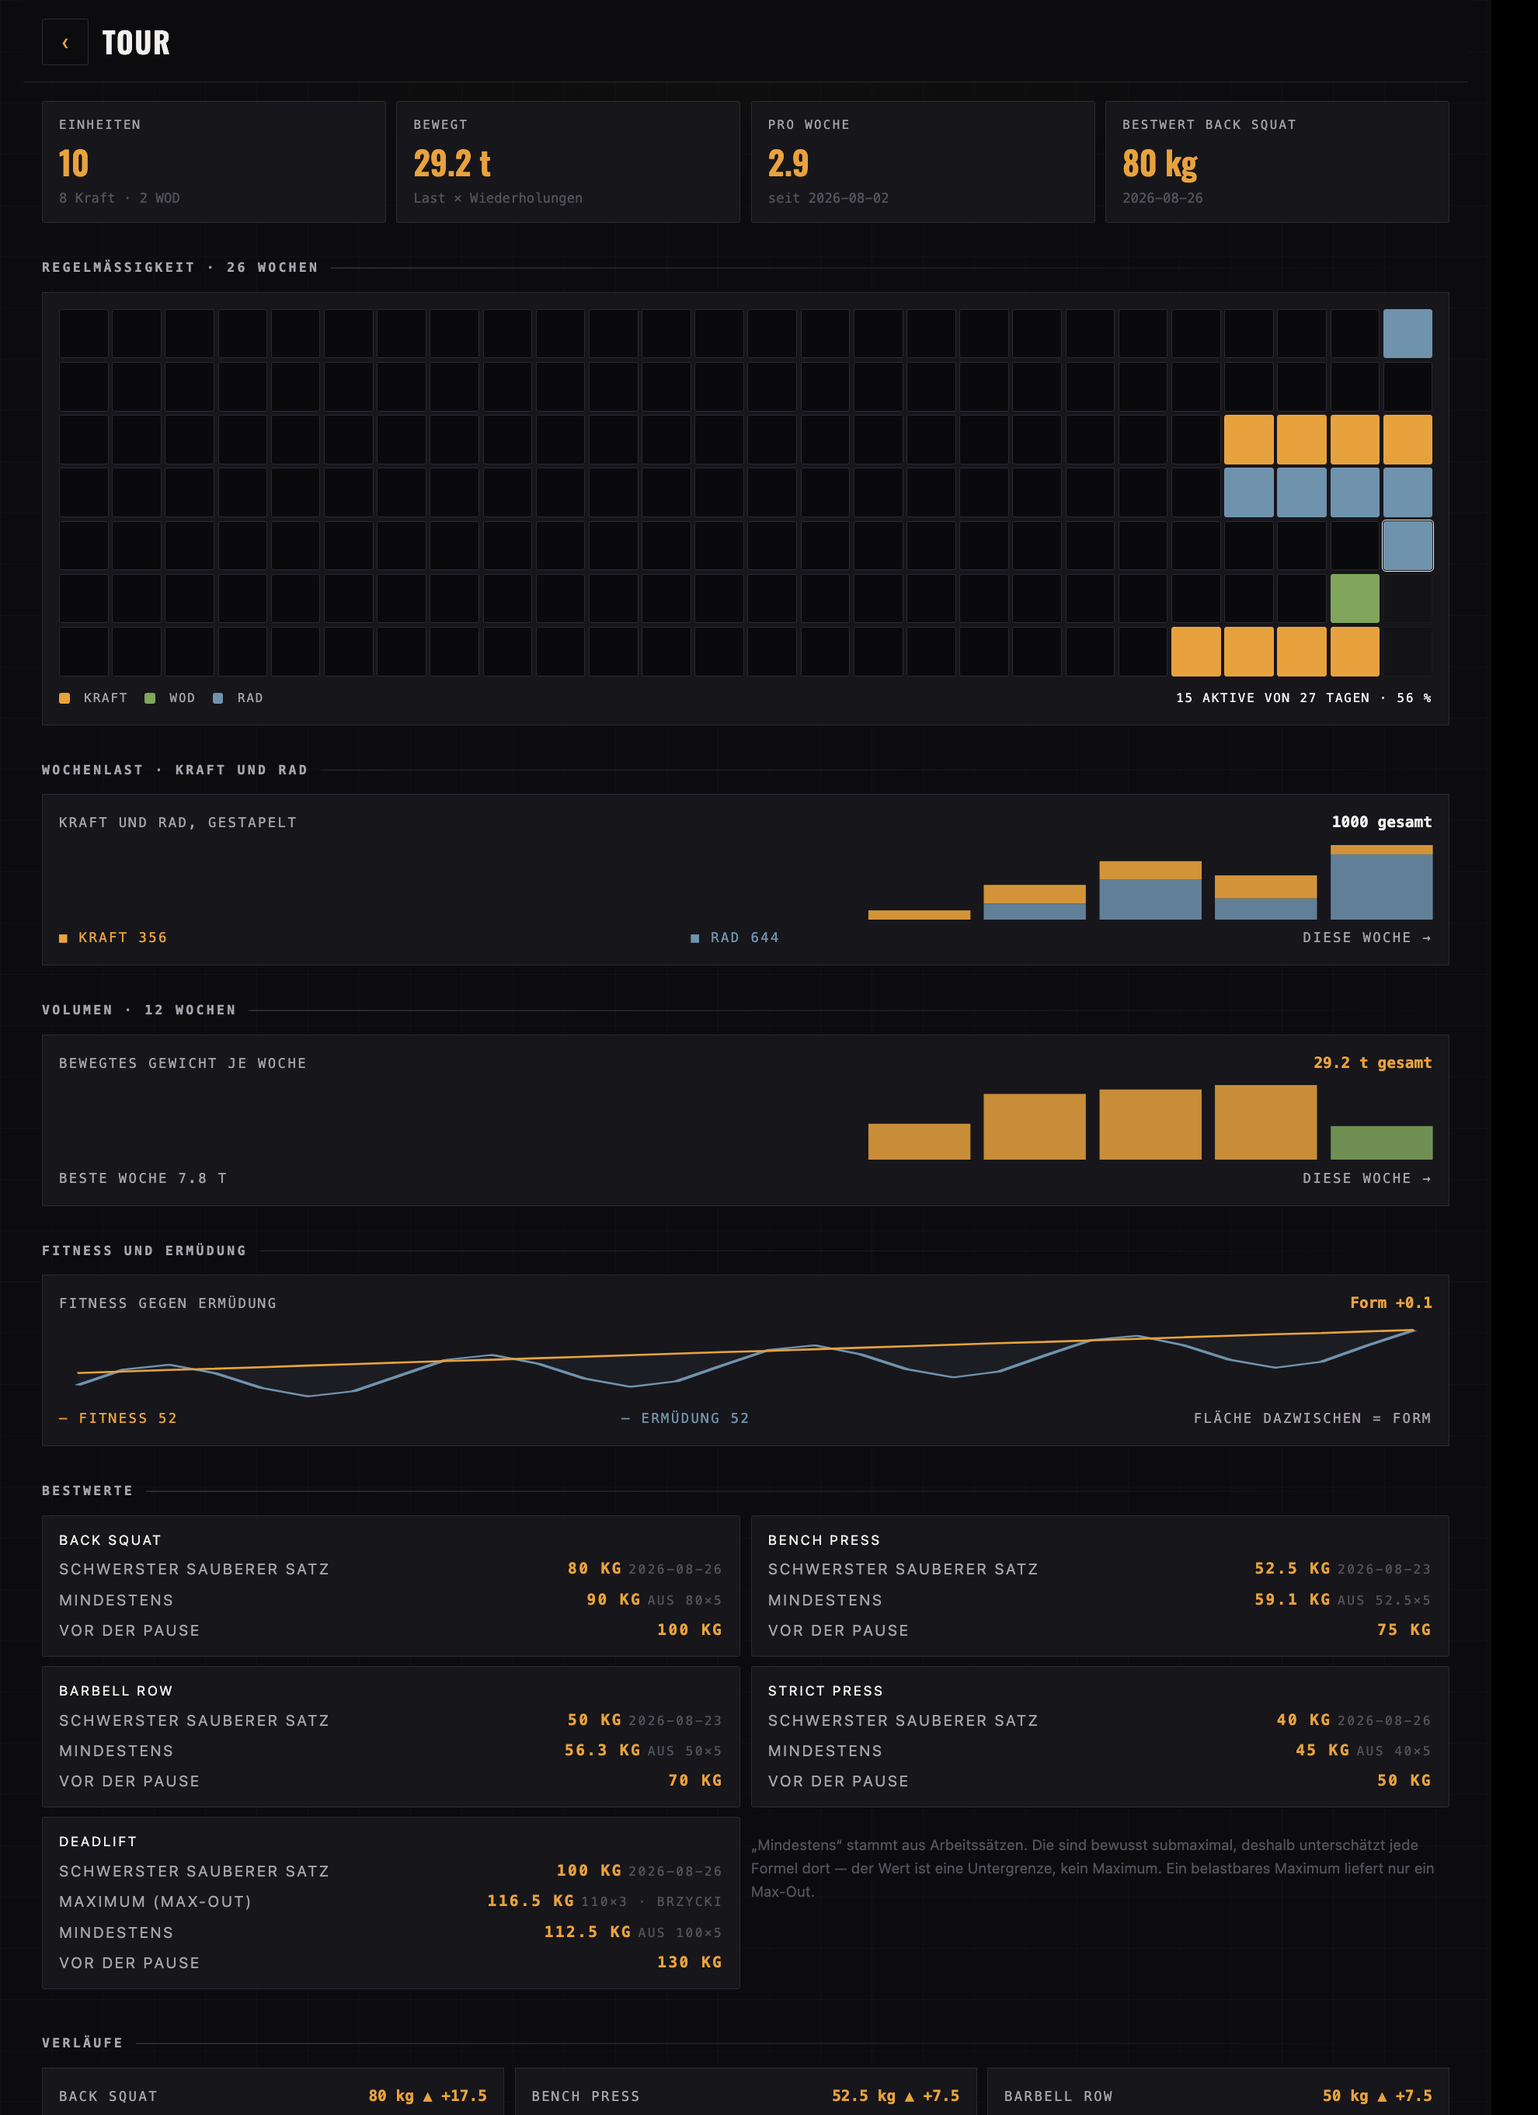
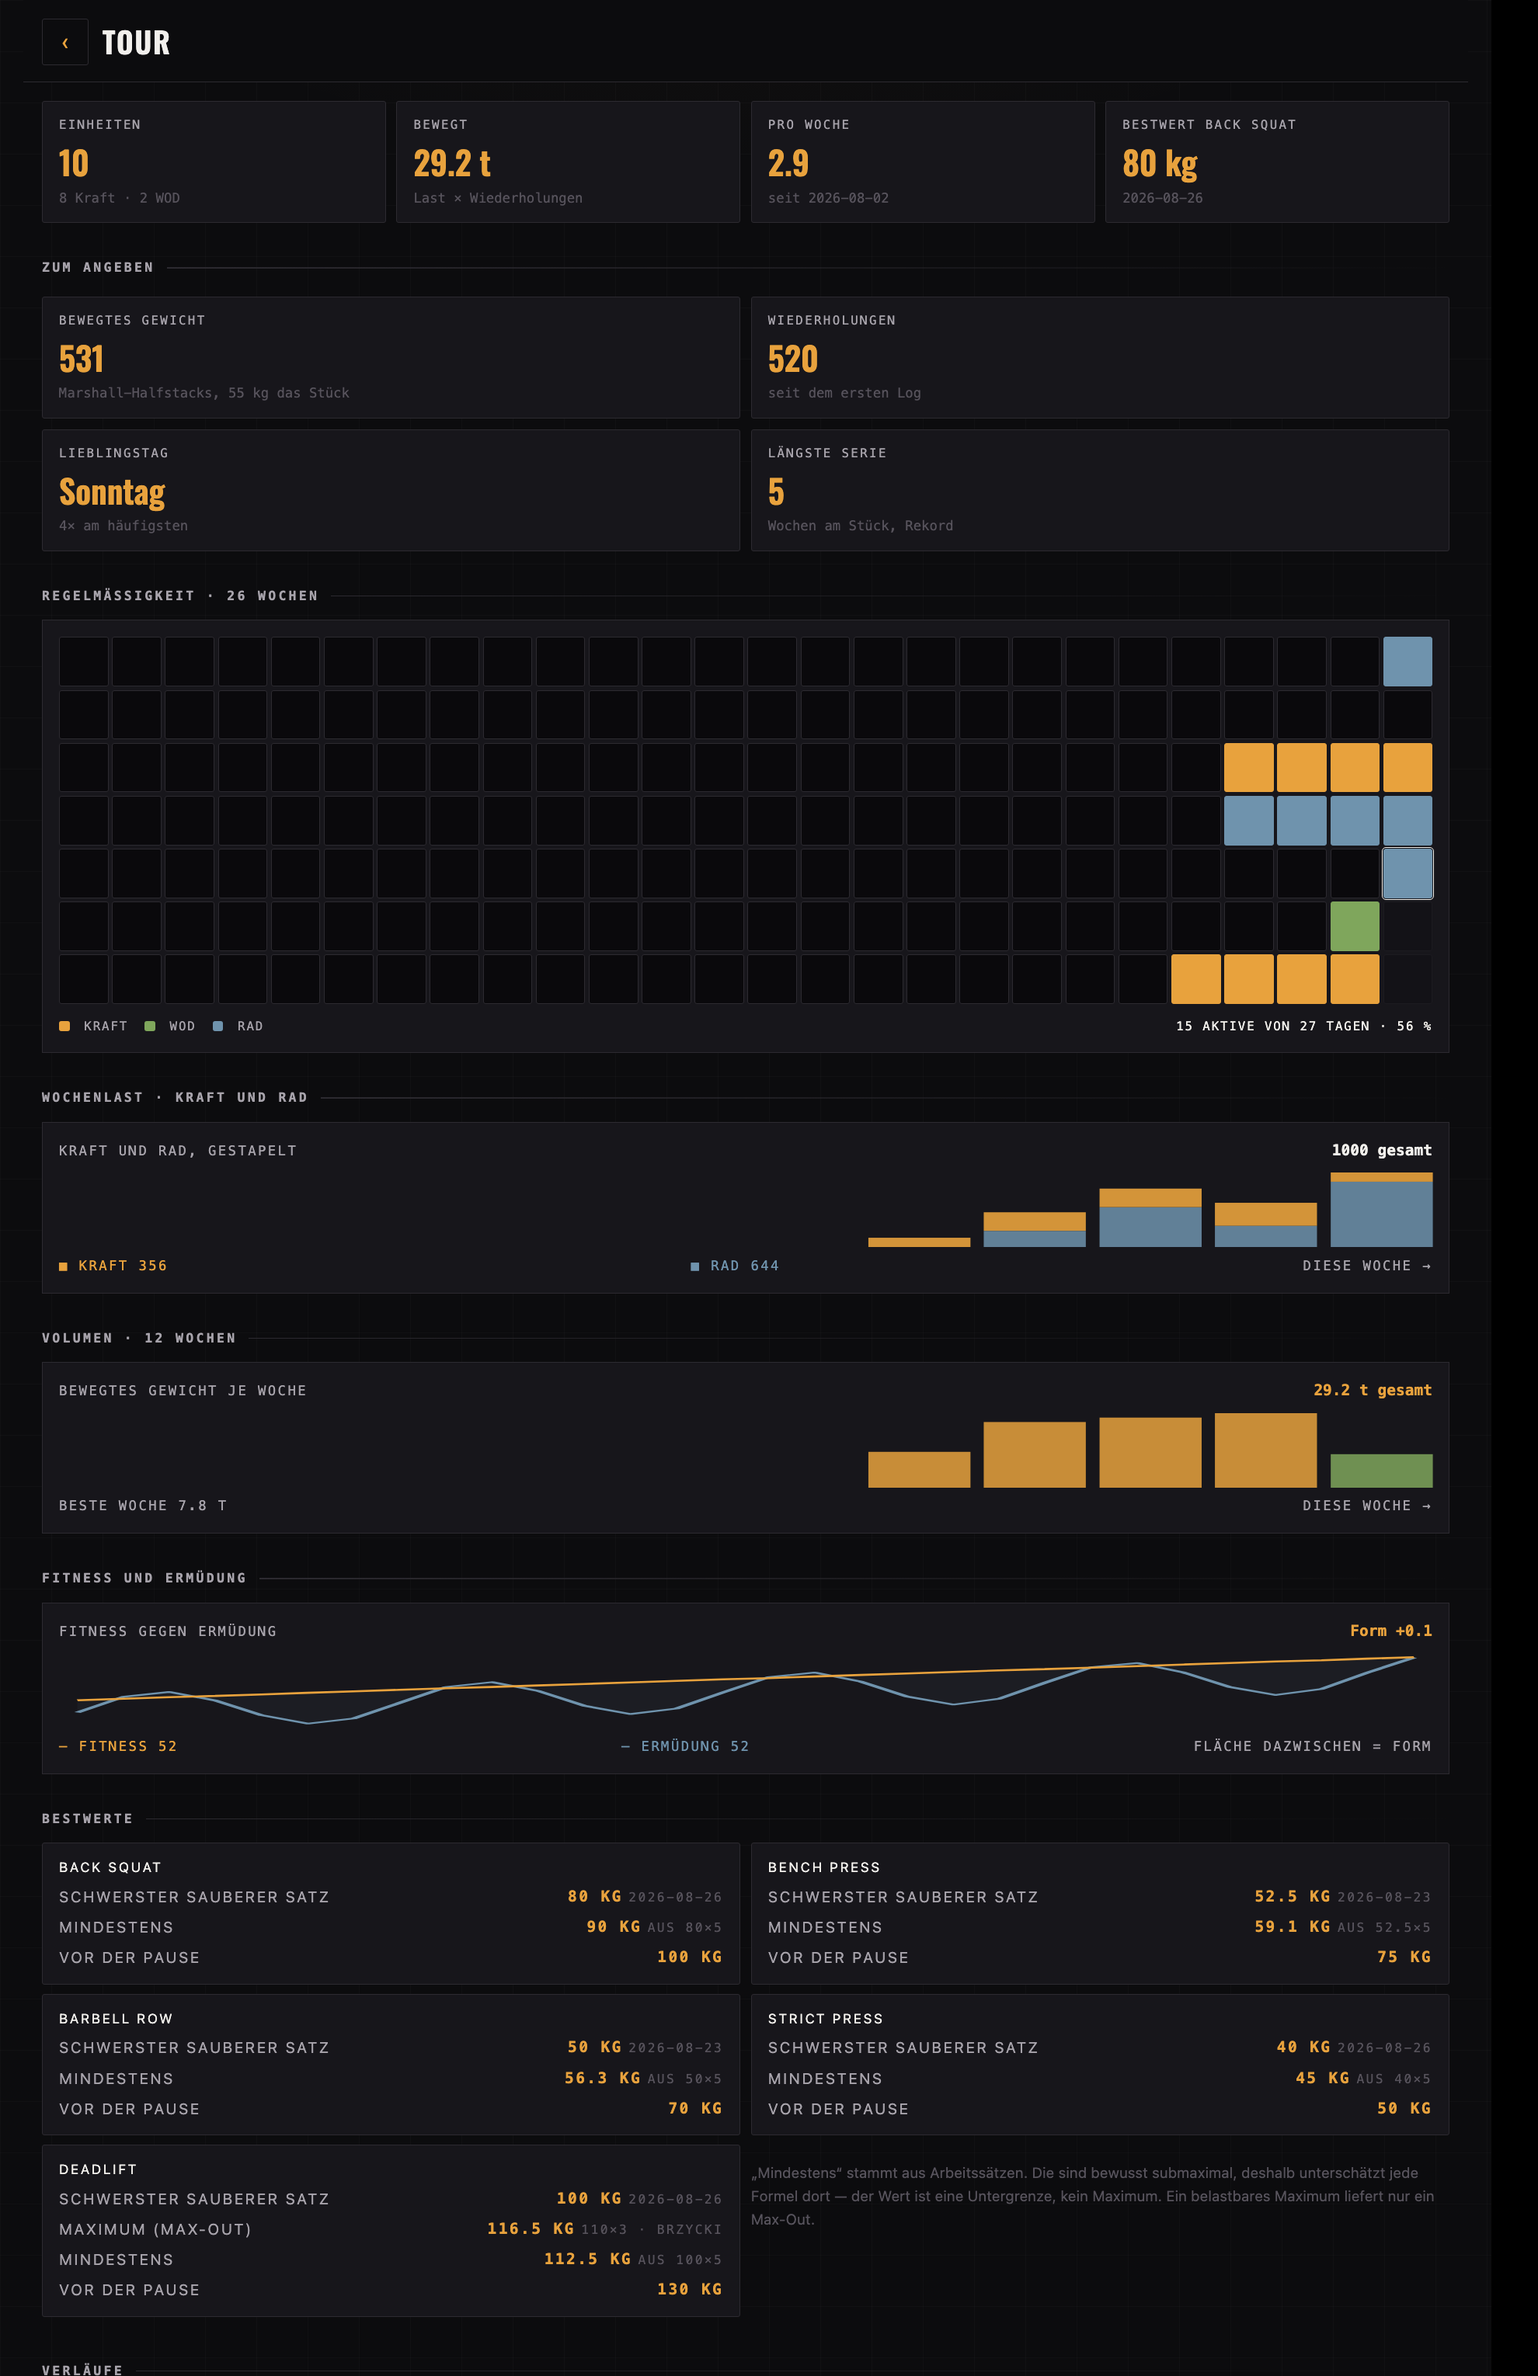
Neue Sektion "Zum Angeben" in der Tour
Drei defensible Vergleiche/Zaehlungen statt geschaetzter Kalorien:
bewegtes Gewicht in Marshall-Halfstacks (55 kg, Kopf + 4x12-Box —
Danaels eigene Wahl statt Konzertfluegel/Golf), Wiederholungen gesamt,
Lieblingstag und laengste Wochen-Serie ueber die gesamte Geschichte.

Kalorien aus bewegtem Gewicht zu schaetzen waere genau das Marketing-
Geraten gewesen, das die App nicht machen soll: bewegtes Gewicht ist
Physik, verbrannte Kalorien sind Stoffwechsel. Die drei neuen Werte
bleiben entweder in derselben Einheit (kg zu kg) oder sind reine
Zaehlungen.

Neue Funktionen in stats.js: wiederholungenGesamt, lieblingstag (Kraft,
WOD und Rad zusammen, ein Tag zaehlt einmal), laengsteSerie (Rekord ueber
alle Wochen, nicht die laufende — die zeigt der Kalender schon). Acht
neue Tests.

Inspiriert von der Radgruppe-Seite eines befreundeten Projekts
(wattwarriors.ledermann.cc) — dort als Gruppen-Feature, hier solo.

diff --git a/js/app.js b/js/app.js
@@ -581,6 +581,7 @@ async function renderHistory() {
   // quittieren statt mit einer Erklaerung.
   if (!config) {
     $('hist-summary').innerHTML = '';
+    $('hist-angeben').innerHTML = '';
     $('hist-prs').innerHTML = '';
     $('hist-kalender').innerHTML = '';
     $('hist-last').innerHTML = '';
@@ -593,6 +594,7 @@ async function renderHistory() {
     return;
   }
   $('hist-summary').innerHTML = '';
+  $('hist-angeben').innerHTML = '';
   $('hist-prs').innerHTML = '';
   $('hist-kalender').innerHTML = '';
   $('hist-last').innerHTML = '';
@@ -606,6 +608,7 @@ async function renderHistory() {
     alleLogs = logs;
     S.cacheLogs(logs);
     renderStats(logs);
+    renderAngeben(logs);
     renderKalender(logs);
     renderLast(logs);
     renderTonnage(logs);
@@ -620,6 +623,7 @@ async function renderHistory() {
     if (alt && alt.logs.length) {
       alleLogs = alt.logs;
       renderStats(alt.logs);
+      renderAngeben(alt.logs);
       renderKalender(alt.logs);
       renderLast(alt.logs);
       renderTonnage(alt.logs);
@@ -897,6 +901,34 @@ function renderStats(logs) {
       <div class="stat"><div class="n">Bestwert ${(config.lifts.squat || {}).name || "Squat"}</div>
         <div class="v">${s.best.squat ? P.fmtWeight(s.best.squat.weight) : '—'}</div>
         <div class="s">${s.best.squat ? s.best.squat.date : 'noch keiner'}</div></div>
+    </div>`;
+}
+
+const MARSHALL_KG = 55; // Halfstack, Kopf + 4x12-Box, grob gerundet
+
+function renderAngeben(logs) {
+  const box = $('hist-angeben');
+  if (!box) return;
+  const fahrten = alleFahrten.length ? alleFahrten : (S.cached().fahrten || []);
+  const s = ST.summary(logs);
+  const reps = ST.wiederholungenGesamt(logs);
+  const tag = ST.lieblingstag(logs, fahrten);
+  const serie = ST.laengsteSerie(logs, fahrten);
+  const stacks = Math.round(s.tonnage / MARSHALL_KG);
+  box.innerHTML = `
+    <div class="stats">
+      <div class="stat"><div class="n">Bewegtes Gewicht</div>
+        <div class="v">${stacks.toLocaleString('de-DE')}</div>
+        <div class="s">Marshall-Halfstacks, ${MARSHALL_KG} kg das Stück</div></div>
+      <div class="stat"><div class="n">Wiederholungen</div>
+        <div class="v">${reps.toLocaleString('de-DE')}</div>
+        <div class="s">seit dem ersten Log</div></div>
+      <div class="stat"><div class="n">Lieblingstag</div>
+        <div class="v">${tag ? tag.tag : '—'}</div>
+        <div class="s">${tag ? `${tag.anzahl}× am häufigsten` : 'noch kein Muster'}</div></div>
+      <div class="stat"><div class="n">Längste Serie</div>
+        <div class="v">${serie}</div>
+        <div class="s">${serie === 1 ? 'Woche am Stück, Rekord' : 'Wochen am Stück, Rekord'}</div></div>
     </div>`;
 }
 

diff --git a/js/stats.js b/js/stats.js
@@ -346,3 +346,63 @@ export function formVerlauf(wellness = []) {
     .map(w => ({ date: w.date, ctl: w.ctl, atl: w.atl, form: Math.round((w.ctl - w.atl) * 10) / 10 }))
     .sort((a, b) => a.date.localeCompare(b.date));
 }
+
+/* ── Zum Angeben ──────────────────────────────────────────────────
+   Reine Vergleiche in derselben Einheit oder reine Zaehlungen — nichts
+   geschaetzt, nichts erfunden. Kalorien aus bewegtem Gewicht waeren genau
+   das: Physik vorgetaeuscht, wo eigentlich Stoffwechsel gemeint ist.    */
+
+const WOCHENTAGE = ['Sonntag', 'Montag', 'Dienstag', 'Mittwoch', 'Donnerstag', 'Freitag', 'Samstag'];
+
+/** Wiederholungen insgesamt, aus allen Kraftsaetzen — auch nicht geschafften. */
+export function wiederholungenGesamt(logs = []) {
+  return logs.filter(istKraft).reduce((summe, l) =>
+    summe + l.lifts.reduce((s, e) => s + (e.reps || []).reduce((a, r) => a + r, 0), 0), 0);
+}
+
+/**
+ * Wochentag, an dem am haeufigsten trainiert wurde — Kraft, WOD und Rad
+ * zusammen, weil es um das eigene Muster geht, nicht um eine Sportart.
+ * Ein Tag mit zwei Einheiten zaehlt einmal, wie im Trainingskalender auch.
+ */
+export function lieblingstag(logs = [], fahrten = []) {
+  const zaehler = new Array(7).fill(0);
+  const gesehen = new Set();
+  const zaehle = datum => {
+    if (!datum || gesehen.has(datum)) return;
+    gesehen.add(datum);
+    zaehler[new Date(datum + 'T00:00:00').getDay()]++;
+  };
+  for (const l of logs) zaehle(l.date);
+  for (const f of fahrten) zaehle(f.date);
+  if (!gesehen.size) return null;
+  const idx = zaehler.indexOf(Math.max(...zaehler));
+  return { tag: WOCHENTAGE[idx], anzahl: zaehler[idx] };
+}
+
+/**
+ * Laengste Serie aufeinanderfolgender Wochen mit mindestens einer Einheit,
+ * ueber die gesamte Geschichte — der Rekord, nicht die laufende Serie
+ * (die steht schon im Trainingskalender).
+ */
+export function laengsteSerie(logs = [], fahrten = []) {
+  const wochenstart = new Set();
+  const einordnen = datum => {
+    if (!datum) return;
+    const d = new Date(datum + 'T00:00:00');
+    d.setDate(d.getDate() - ((d.getDay() + 6) % 7));
+    wochenstart.add(tagesKey(d));
+  };
+  for (const l of logs) einordnen(l.date);
+  for (const f of fahrten) einordnen(f.date);
+
+  const sortiert = [...wochenstart].sort();
+  let laengste = 0, laufend = 0, vorher = null;
+  for (const w of sortiert) {
+    const d = new Date(w + 'T00:00:00');
+    laufend = (vorher && d - vorher === 7 * 86400000) ? laufend + 1 : 1;
+    laengste = Math.max(laengste, laufend);
+    vorher = d;
+  }
+  return laengste;
+}

diff --git a/tests/stats.test.js b/tests/stats.test.js
@@ -205,4 +205,30 @@ eq('Form ist Fitness minus Ermuedung', fv[0].form, 2);
 eq('auch negativ', fv[1].form, -6);
 eq('ohne Daten leer', S.formVerlauf([]).length, 0);
 
+print('\n--- Zum Angeben ---');
+eq('Wiederholungen aus zwei Kraft-Einheiten, WOD zaehlt nicht', S.wiederholungenGesamt(logs), 25+25 + 22+25);
+eq('ohne Logs keine Wiederholungen', S.wiederholungenGesamt([]), 0);
+
+const angebenLogs = [
+  { date:'2026-08-03', type:'strength', lifts:[{ lift:'squat', weight:50, reps:[5,5,5,5,5] }] }, // Montag
+  { date:'2026-08-10', type:'strength', lifts:[{ lift:'squat', weight:50, reps:[5,5,5,5,5] }] }, // Montag
+  { date:'2026-08-17', type:'strength', lifts:[{ lift:'squat', weight:50, reps:[5,5,5,5,5] }] }, // Montag
+  { date:'2026-08-04', type:'wod', label:'AMRAP' },                                              // Dienstag
+  { date:'2026-08-31', type:'strength', lifts:[{ lift:'squat', weight:50, reps:[5,5,5,5,5] }] }, // Montag, nach Luecke
+  { date:'2026-09-07', type:'strength', lifts:[{ lift:'squat', weight:50, reps:[5,5,5,5,5] }] }  // Montag
+];
+const angebenFahrten = [
+  { date:'2026-08-03' }, // gleicher Tag wie eine Einheit — zaehlt nicht doppelt
+  { date:'2026-08-11' }  // Dienstag, eigener Tag
+];
+
+const tagTest = S.lieblingstag(angebenLogs, angebenFahrten);
+eq('Montag ist der haeufigste Tag', tagTest.tag, 'Montag');
+eq('fünfmal Montag', tagTest.anzahl, 5);
+eq('ohne jede Aktivitaet kein Lieblingstag', S.lieblingstag([], []), null);
+
+eq('drei Wochen am Stueck sind die laengste Serie', S.laengsteSerie(angebenLogs, angebenFahrten), 3);
+eq('eine einzelne Einheit ist eine Serie von einer Woche', S.laengsteSerie([angebenLogs[0]], []), 1);
+eq('ohne Daten keine Serie', S.laengsteSerie([], []), 0);
+
 print(`\n========== Gesamt: ${pass} bestanden, ${fail} fehlgeschlagen ==========\n`);

diff --git a/sw.js b/sw.js
@@ -1,6 +1,6 @@
 // Nur die App-Huelle wird gecacht. Trainingsdaten laufen immer live ueber
 // die GitHub-API — veraltete Gewichte im Studio waeren schlimmer als ein Ladebalken.
-const CACHE = 'setlist-2026-08-28.53';
+const CACHE = 'setlist-2026-08-28.54';
 const SHELL = ['./', 'index.html', 'css/style.css', 'js/app.js', 'js/program.js', 'js/store.js', 'js/intervals.js', 'js/coach.js', 'js/content.js', 'js/wod.js', 'js/stats.js', 'manifest.json', 'assets/fonts/oswald-latin-var.woff2', 'icons/icon-512.png'];
 
 self.addEventListener('install', e => {

diff --git a/index.html b/index.html
@@ -173,6 +173,8 @@
   </header>
   <div class="pad">
     <div id="hist-summary"></div>
+    <h2>Zum Angeben</h2>
+    <div id="hist-angeben"></div>
     <h2>Regelmäßigkeit · 26 Wochen</h2>
     <div id="hist-kalender"></div>
     <h2>Wochenlast · Kraft und Rad</h2>
